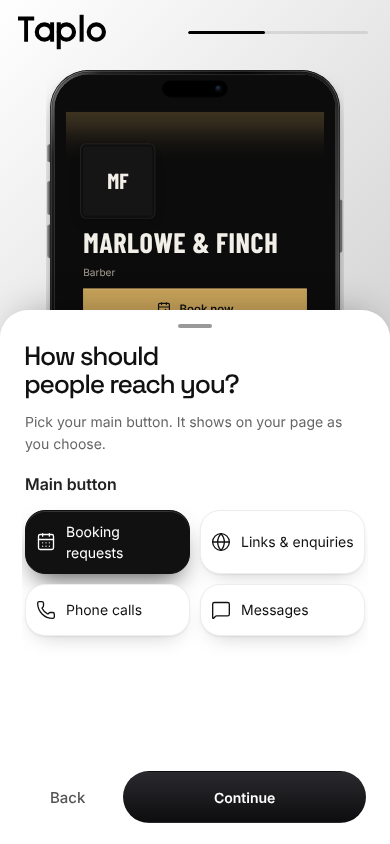
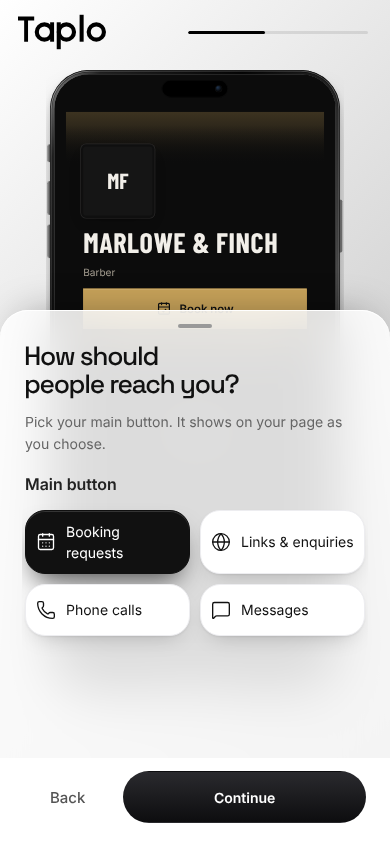
Mobile setup: design step keeps 55% preview over a frosted 45% sheet

Changed region(s): [[0.1231, 0.3697, 0.8615, 0.8318]]

diff --git a/src/features/demo/onboarding-mobile.css b/src/features/demo/onboarding-mobile.css
@@ -152,7 +152,7 @@ html:has(.setup-scene),body:has(.setup-scene){height:100%;overflow:hidden;oversc
 .setup-sheet-grip{display:none}
 @media(max-width:1023px){
  .setup-flow[data-mobile-layout=preview] .setup-workspace{display:block;width:calc(100% + 44px);margin-inline:-22px;position:relative}
- .setup-flow[data-mobile-layout=preview] .setup-workspace>.setup-panel{position:absolute;z-index:2;inset:auto 0 0;height:var(--setup-drag-height,var(--setup-sheet-height));min-height:92px;max-width:none;width:100%;margin:0;display:grid;grid-template-rows:auto auto minmax(0,1fr) auto;padding:0 22px;border-radius:28px 28px 0 0;background:#fff;box-shadow:0 -14px 40px -22px #0006;transition:height .3s cubic-bezier(.22,.75,.2,1)}
+ .setup-flow[data-mobile-layout=preview] .setup-workspace>.setup-panel{position:absolute;z-index:2;inset:auto 0 0;height:var(--setup-drag-height,var(--setup-sheet-height));min-height:92px;max-width:none;width:100%;margin:0;display:grid;grid-template-rows:auto auto minmax(0,1fr) auto;padding:0 22px;border-radius:28px 28px 0 0;background:color-mix(in srgb,#fff 86%,transparent);-webkit-backdrop-filter:blur(26px) saturate(1.4);backdrop-filter:blur(26px) saturate(1.4);box-shadow:0 1px 0 #fff inset,0 -14px 40px -22px #0006;transition:height .3s cubic-bezier(.22,.75,.2,1)}
  .setup-flow[data-mobile-layout=preview] .setup-panel[style*="--setup-drag-height"]{transition:none}
  .setup-flow[data-mobile-layout=preview] .setup-sheet-grip{display:grid;place-items:center;height:32px;min-width:68px;justify-self:center;touch-action:none;cursor:ns-resize;outline-offset:-3px;border-radius:12px}
  .setup-sheet-grip>span{display:block;width:34px;height:4px;border-radius:99px;background:#999}

diff --git a/src/features/demo/Onboarding.tsx b/src/features/demo/Onboarding.tsx
@@ -229,7 +229,7 @@ export function Onboarding() {
       </nav>
 
       <div className="setup-workspace grid gap-10 lg:grid-cols-[minmax(0,1fr)_minmax(0,1fr)] lg:gap-20">
-        <SetupPanel preview={previewStep} size={sheetSize} onSizeChange={setSheetSize}>
+        <SetupPanel preview={previewStep} size={sheetSize} onSizeChange={setSheetSize} compact={step === "widgets"}>
           <div className="setup-question-heading">{fromName || intent || chosenDesign ? <p className="setup-origin">{chosenDesign ? <span data-testid="from-design">Starting with {chosenDesign.name}{intent ? " · " : ""}</span> : null}{fromName ? <span data-testid="from-example">Starting from {fromName}</span> : null}{fromName && intent ? " · " : ""}{intent ? <span data-testid="plan-intent">{PLANS[intent].name} plan</span> : null}</p> : null}
           <motion.h1 key={step} initial={reducedMotion ? false : { opacity:0, x:direction*10 }} animate={{ opacity:1, x:0 }} transition={{ type:"spring", stiffness:380, damping:34 }} tabIndex={-1} id="step-title" className="font-display mb-8 max-w-xl text-[clamp(2.25rem,4vw,3.5rem)] font-semibold leading-[1.02] tracking-[-0.055em]">{step === "contacts" ? setupJourney(c.identity.industryKey).heading : parts > 1 && part > 0 ? PART_TITLE[step as "business" | "reach"] : STEP_TITLE[step]}</motion.h1></div>
 

diff --git a/src/features/demo/SetupPanel.tsx b/src/features/demo/SetupPanel.tsx
@@ -15,11 +15,14 @@ export function SetupPanel({
   preview,
   size,
   onSizeChange,
+  compact = false,
 }: {
   children: ReactNode;
   preview: boolean;
   size: SetupSheetSize;
   onSizeChange: (size: SetupSheetSize) => void;
+  /** A visual step (designs, arrangements): the page keeps the top 55% and the sheet takes 45%. */
+  compact?: boolean;
 }) {
   const panel = useRef<HTMLElement>(null);
   const gesture = useRef<{
@@ -66,7 +69,7 @@ export function SetupPanel({
       style={
         {
           "--setup-sheet-height":
-            size === "preview" ? "92px" : size === "expanded" ? "100%" : "68%",
+            size === "preview" ? "92px" : size === "expanded" ? "100%" : compact ? "45%" : "68%",
         } as CSSProperties
       }
     >
